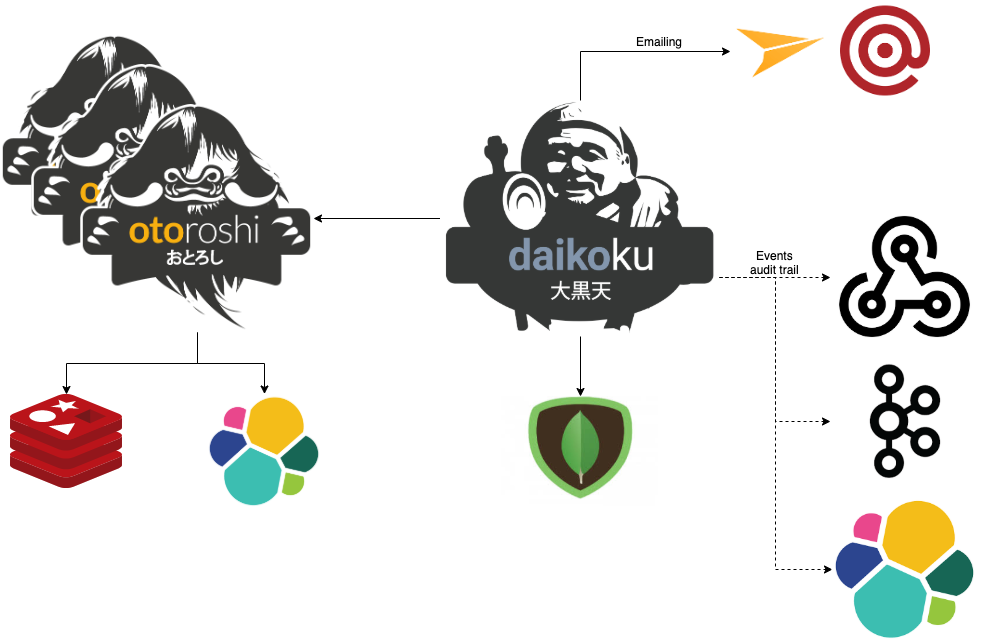
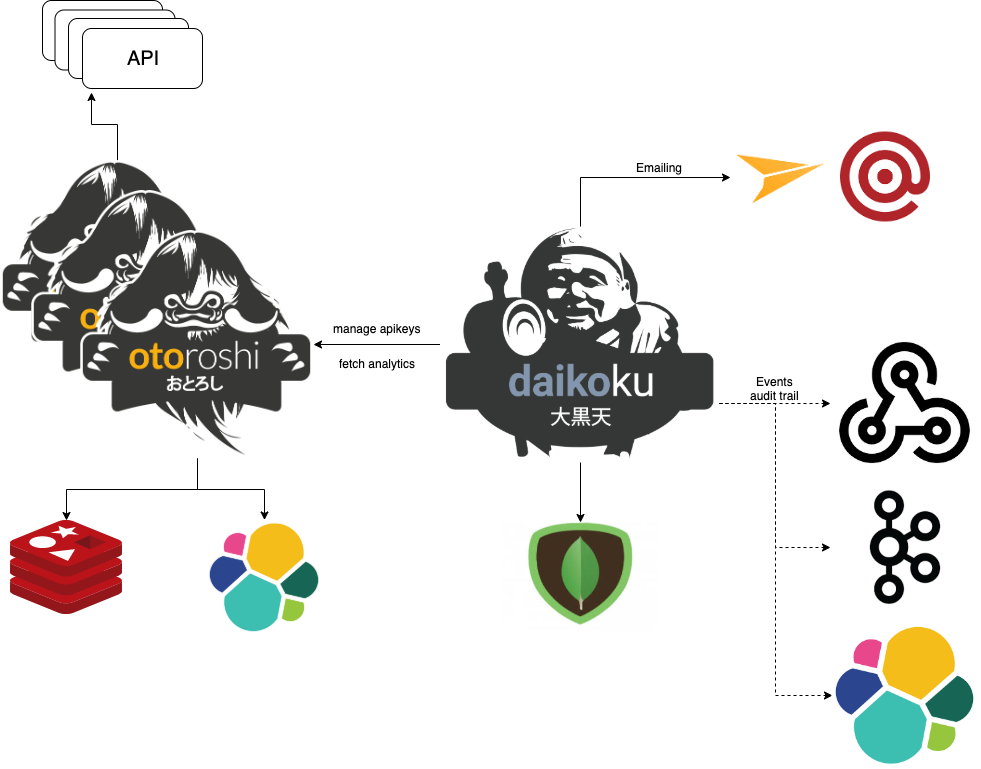
Update archi

diff --git a/docs/manual/archi.html b/docs/manual/archi.html
@@ -197,9 +197,10 @@ C16.952,7,17,6.553,17,6c0-0.553-0.048-1-0.6-1H3.6C3.048,5,3,5.447,3,6C3,6.553,3.
 
 <div class="page-content row">
 <div class="small-12 large-9 column" id="docs">
-<h1><a href="#architecture" name="architecture" class="anchor"><span class="anchor-link"></span></a>Architecture</h1>
-<p>TODO</p><div class="centered-img">
+<h1><a href="#architecture" name="architecture" class="anchor"><span class="anchor-link"></span></a>Architecture</h1><div class="centered-img">
 <img src="./img/daikoku-architecture.png" /></div>
+<p>To make Daikoku works, you&rsquo;ll need an <a href="https://www.mongodb.com/">Mongodb</a> datastore and an emailing provider (<a href="https://www.mailgun.com/">Mailgun</a> and <a href="https://www.mailjet.com/">Mailjet</a> are supported). Tou can also export the audit trail of Daikoku using many techniques with webhooks, a <a href="https://kafka.apache.org/">Kafka</a> topic or an <a href="https://www.elastic.co/fr/products/elasticsearch">elastic cluster</a>.</p>
+<p>As you can see, Daikoku is capable of working with many <a href="https://maif.github.io/otoroshi">Otoroshi</a> cluster instances to handle all the use cases of exposing APIs. Daikoku will <strong>never</strong> interact directly with your APIs.</p>
 <div class="nav-next">
 <p><strong>Next:</strong> <a href="quickstart.html">Try Daikoku in 5 minutes</a></p>
 </div>

diff --git a/manual/src/main/paradox/archi.md b/manual/src/main/paradox/archi.md
@@ -1,8 +1,9 @@
 # Architecture
 
-TODO
-
-
 @@@ div { .centered-img }
 <img src="./img/daikoku-architecture.png" />
 @@@
+
+To make Daikoku works, you'll need an [Mongodb](https://www.mongodb.com/) datastore and an emailing provider ([Mailgun](https://www.mailgun.com/) and [Mailjet](https://www.mailjet.com/) are supported). Tou can also export the audit trail of Daikoku using many techniques with webhooks, a [Kafka](https://kafka.apache.org/) topic or an [elastic cluster](https://www.elastic.co/fr/products/elasticsearch).
+
+As you can see, Daikoku is capable of working with many [Otoroshi](https://maif.github.io/otoroshi) cluster instances to handle all the use cases of exposing APIs. Daikoku will **never** interact directly with your APIs.
